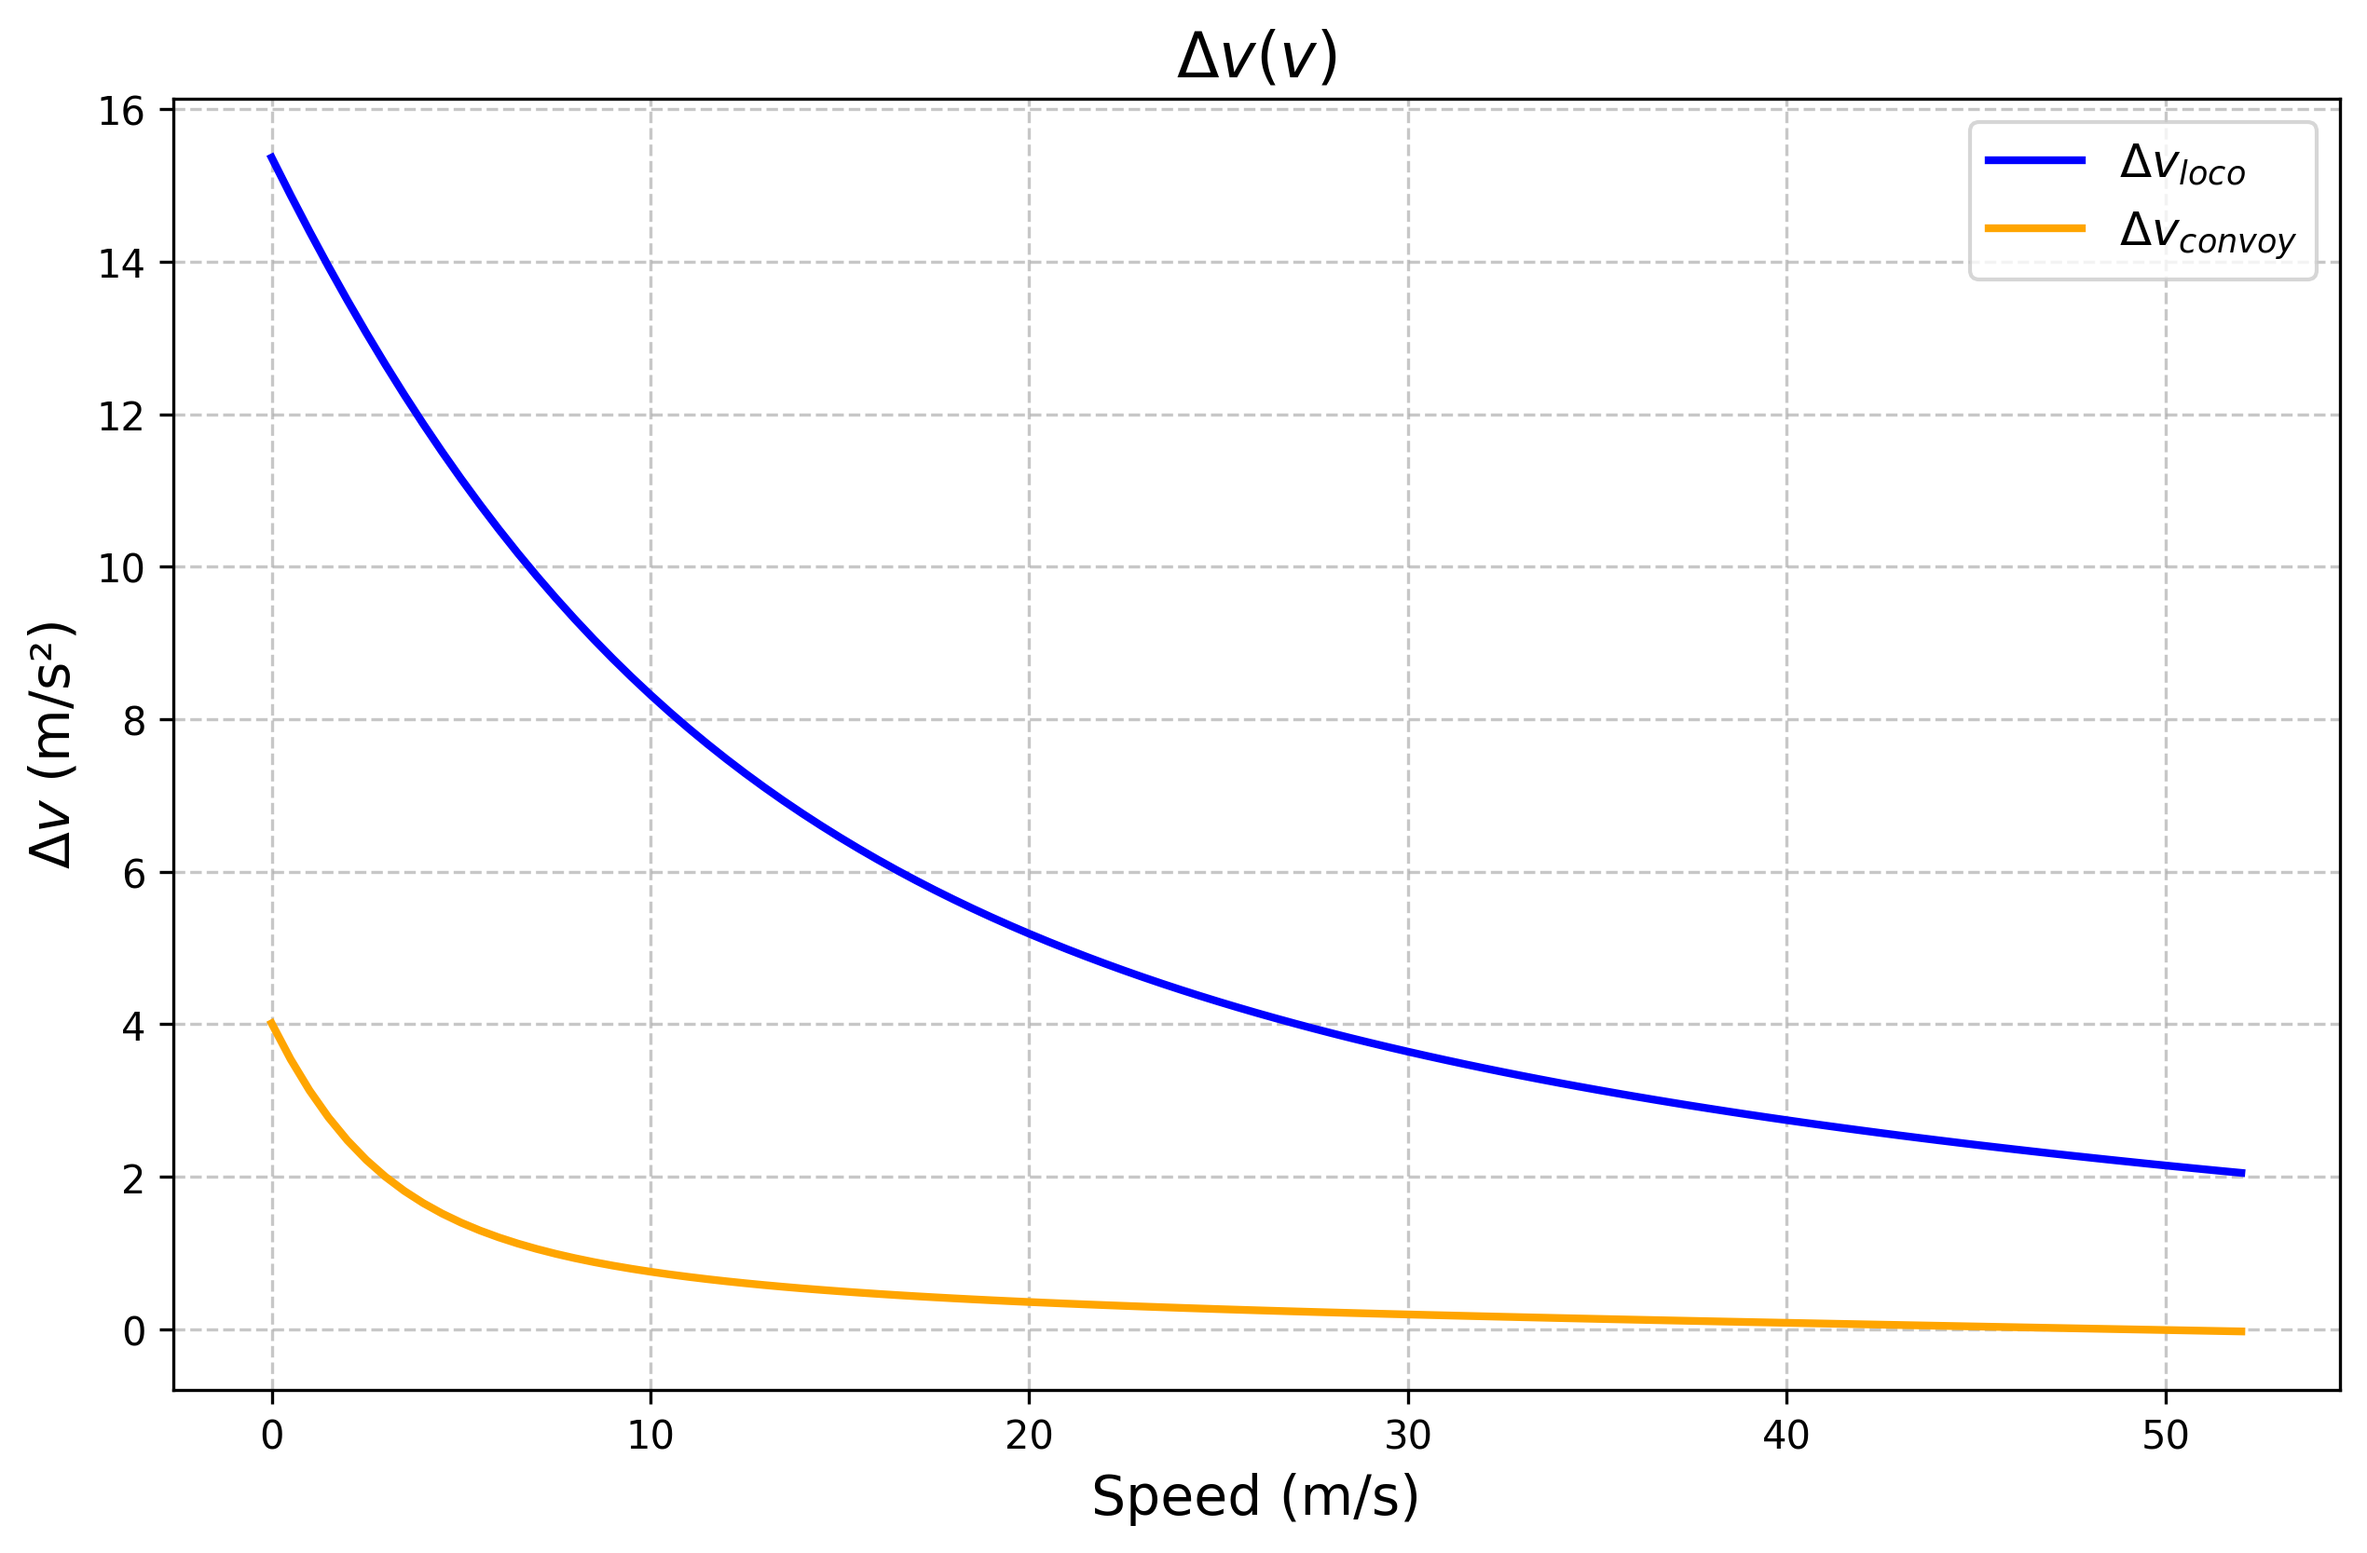
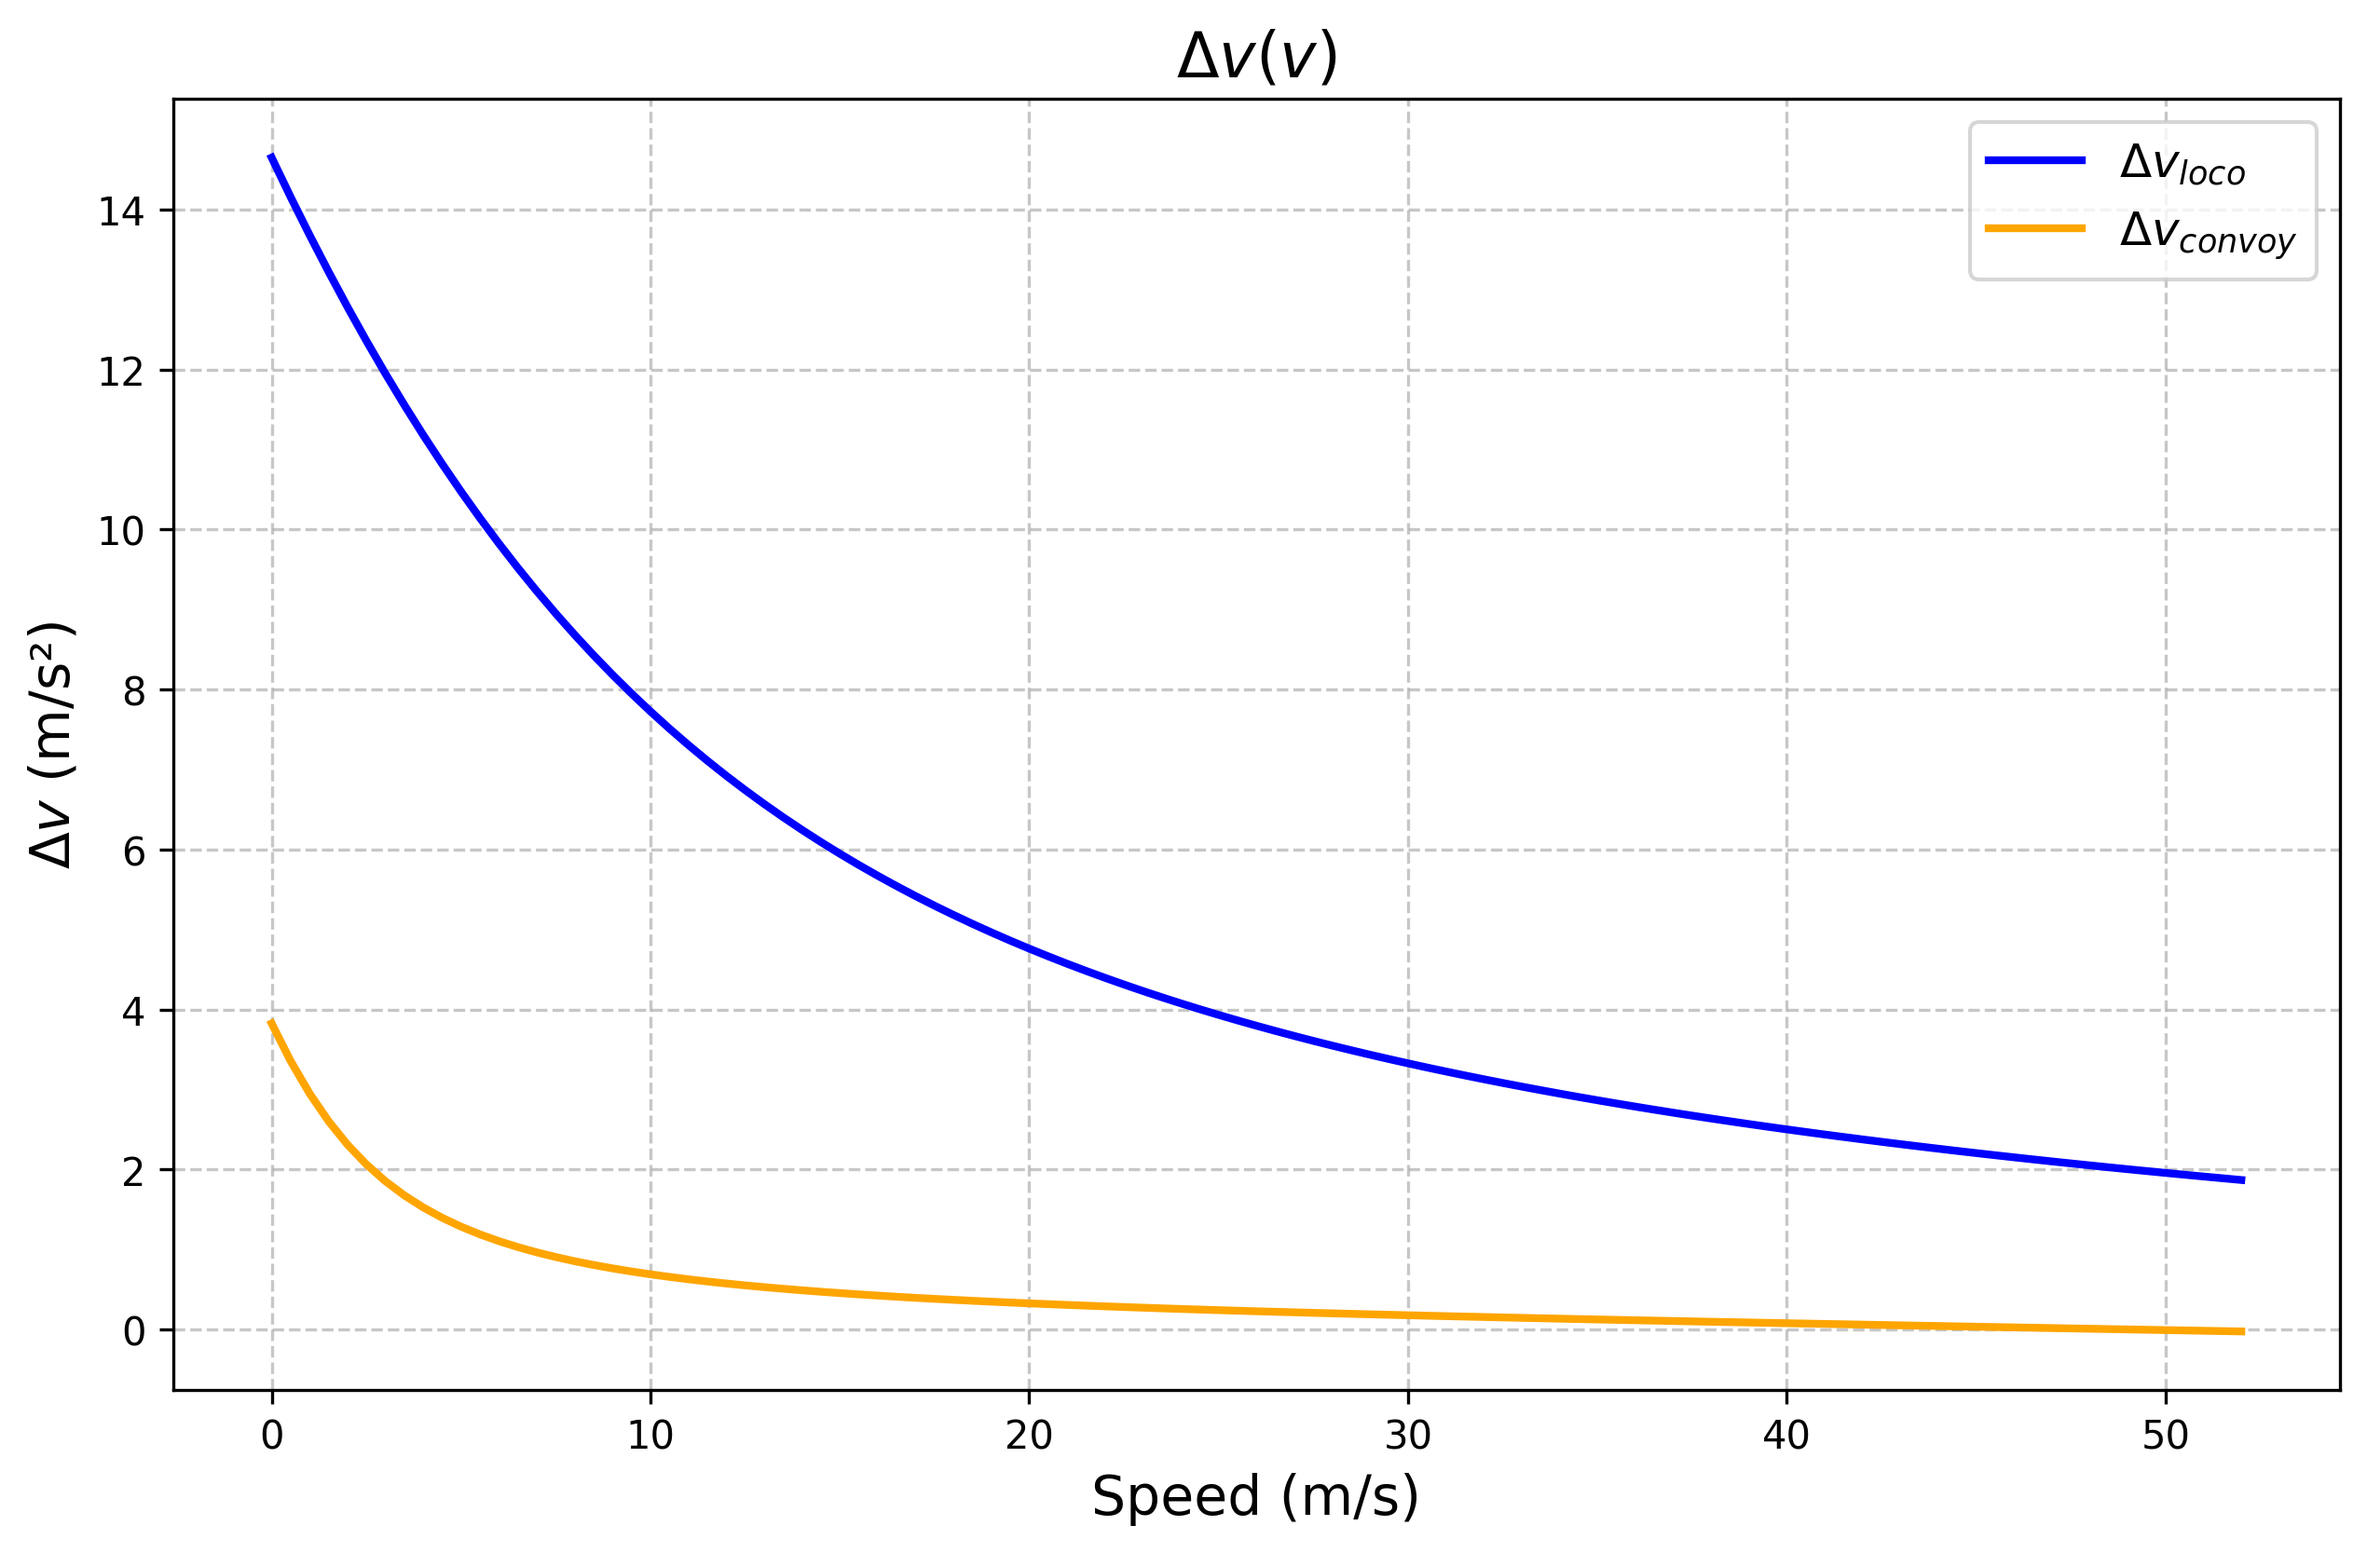
Explanation of new model

diff --git a/Code/New_model/CPLEX_CODE_with_constraints_new_formulation.py b/Code/New_model/CPLEX_CODE_with_constraints_new_formulation.py
@@ -20,6 +20,16 @@ from docplex.mp.model import Model
 import Convoy_example1
 from Convoy_example1 import Convoy1
 
+delta_v = Convoy1.delta_vs
+speeds = Convoy1.speeds
+
+
+def find_closest_acceleration(speeds, v):
+    # Find the index of the speed closest to v
+    closest_index = min(range(len(speeds)), key=lambda i: abs(speeds[i] - v))
+    return delta_v[closest_index]
+
+
 opt_model = Model(name="MIP Model")
 
 Nc = 40
@@ -62,7 +72,11 @@ for i in range(0, Nc):
 objective = opt_model.linear_expr()
 ## objective is the hamiltonian/energy value we want to minimize
 ## Energy:
+velocity = 0
 for i in range(0, Nc):
+    delta_v_acc = find_closest_acceleration(speeds, velocity)
+    velocity = velocity + delta_v_acc * x[i] - delta_v_decc * y[i]
+    delta_v_acc = find_closest_acceleration(speeds, velocity)
     objective += (delta_v_acc**2) * x[i] - alpha * (delta_v_decc**2) * y[i]
     # objective += (delta_v**2)*x[i]
 
@@ -106,6 +120,7 @@ Constraint 2: (Total Distance constraint)
 distance = opt_model.linear_expr()
 velocity = 0
 for i in range(0, Nc):
+    delta_v_acc = find_closest_acceleration(speeds, velocity)
     velocity = velocity + delta_v_acc * x[i] - delta_v_decc * y[i]
     distance += velocity
 opt_model.add_constraint(distance == Dist, "Distance_constraint")
@@ -118,20 +133,32 @@ opt_model.add_constraint(distance == Dist, "Distance_constraint")
 Constraint 3: (Net-Zero contraint)
 
 """
-opt_model.add_constraint(
+velocity = opt_model.linear_expr()
+for i in range(0, Nc):
+    delta_v_acc = find_closest_acceleration(speeds, velocity)
+    velocity += delta_v_acc * x[i] - delta_v_decc * y[i]
+opt_model.add_constraint(velocity == 0, "Net_Zero_constraint")
+
+"""opt_model.add_constraint(
     opt_model.sum((y[i] * delta_v_decc - delta_v_acc * x[i]) for i in range(0, Nc))
     == 0,
     "Net_Zero_constraint",
-)
+)"""
 
 """
 Constraint 4: (Maximum Speed)
 
 """
-opt_model.add_constraint(
+max_velocity = opt_model.linear_expr()
+for i in range(0, Nc):
+    delta_v_acc = find_closest_acceleration(speeds, velocity)
+    max_velocity += delta_v_acc * x[i]
+opt_model.add_constraint(max_velocity <= Convoy1.calculate_vmax(), "vmax_constraint")
+
+"""opt_model.add_constraint(
     opt_model.sum((delta_v_acc * x[i]) for i in range(0, Nc)) <= vmax,
     "Maximum_Speed_constraint",
-)
+)"""
 
 
 #### Print the optimization model

diff --git a/Code/New_model/Classes.py b/Code/New_model/Classes.py
@@ -40,12 +40,13 @@ class Wagon:
 
 
 class Locomotive:
-    def __init__(self, Pnom, Mloco, Ne, efficiency=0.85):
+    def __init__(self, Pnom, Mloco, Ne, efficiency=0.85, k=1.1):
         self.Pnom = Pnom
         self.Mloco = Mloco  # tonnes
         self.Mtot = Mloco
         self.Ne = Ne
         self.efficiency = efficiency
+        self.k = k
 
     def RAV(self, v):  # v  in m/s
         v = v * 3.6  # v in km/h
@@ -60,7 +61,7 @@ class Locomotive:
     def delta_v(self, v1):  # v1 in m/s
         Pav = self.Pavailable(v1)
         delta_t = 1  # 1 sec steps
-        v2 = math.sqrt((2 / ((self.Mtot) * 1000)) * Pav * delta_t + v1**2)
+        v2 = math.sqrt((2 / ((self.k * self.Mtot) * 1000)) * Pav * delta_t + v1**2)
         return v2 - v1  # delta_v in m/s^2
 
     def calculate_vmax(self):
@@ -113,8 +114,9 @@ class Convoy(Locomotive):
             return vmax_approx / 3.6  # m /s
 
 
-def acceleration_profile(self, verbose=0):
-    speed = np.arange(0, self.calculate_vmax(), 0.5)
+def acceleration_profile(self, n=1000, verbose=0):
+    step = self.calculate_vmax() / n
+    speed = np.arange(0, self.calculate_vmax(), step)
     delta_v_loco = []
     delta_v_convoy = []
     Pavailable_loco = []

diff --git a/Notes/Modeling_train_acceleration.md b/Notes/Modeling_train_acceleration.md
@@ -1,12 +1,82 @@
 # Modeling a train's acceleration
-We are trying to determine the $\Delta v(v)$ of a train as approximating it as a constant is too big an approximation.
+We are trying to model the $\Delta v(v)$ or acceleration(v) of a train as approximating it as a constant is unreasonable.
 
 ## Train dynamics:
 
-**The fundamental law of train dynamics:**
+### **The fundamental law of train dynamics:**
 ```math
 F_{wheel} = F_{resistance} + F_{weight} + F_{curves} + F_{acceleration}
 ```
 ```math
-F_{wheel} = RAV + \frac{M_sg}{1000}i + \frac{M_sg}{1000} \frac{800}{\rho} + k M_s \gamma
+F_{wheel} = RAV + \frac{M_sg}{1000}i + \frac{M_sg}{1000} \frac{800}{\rho} 
 ```
+For now, we will suppose that:
+- The track is perfectly straight and flat, not taking into consideration the loss from the curvature of the track and weight of the train.
+- The departure and arrival points are at the same altitude, ignoring the potential energy losses.
+
+We therefore have:
+$$ F_{wheel} = RAV
+
+### **The RAV losses:**
+
+#### Formula:
+
+We have:
+$RAV=A+BV+CV^2$
+
+**A:**
+Mesures  the rolling resistance of the wheels on the rail and the axle bearings.
+$$A=\lambda_A \sqrt{\frac{10}{m}} M_s$$
+where:
+- m is the mass per axle
+  
+**B:**
+Other resistance such as losses by mechanical hysteresis, friction of the flanges on the lateral faces of the rail heads etc.
+$$B= \lambda_B M_s$$
+
+**C:**
+The aerodynamic losses:
+$$C= K_1 S + K_2 p L + \sum C_{others}$$
+Where:
+- $K_1$ global parameter of the shape of the front and rear extremities
+- $K_2$ global parameter of the "wet surface"
+<div style="display: flex; justify-content: center;">
+<img src="../Illustrations/Capture d’écran 2024-11-22 100248.png" style="width:50%;"/>
+</div>
+
+#### Example
+I chose to study a convoy made up of a BB60000 locomotive with 12 standard 4-axle carriages.
+For these types of vehicles, we get:
+```math
+RAV_{locomotive} = 6.5 M_s + 130N_e + 0.1 M_s V + 0.3 V^2 \\
+RAV_{carriage} = 12 M_s + 0.09 M_s V + 0.0044 M_s V^2
+```
+Where:
+- $N_e$ is the number of axles
+
+### Determining the acceleration:
+
+We are given the nominal power produced by the locomotive which is, in our case of 1MW ($P_{Nom}$).
+
+We determine the power available for acceleration:
+$$P_{Available} = \eta P_{Nom}  - P_{Resistance}$$
+Where:
+$P_{Resistance} = F_{Resistance} \times v$
+
+And since all of our available power is used for acceleration we have, between two steps i and i+1:
+```math
+\Delta Ec = \frac12 M_{tot} (v_{i+1}^2-v_i^2) = P_{Available} \ \Delta_t
+```
+Where:
+$M_{tot}= M_{static} + M_{rolling} \approx k M_{static} $ with $k \approx 1.1$
+
+Which gives us that:
+$v_{i+1}= \sqrt{v_i^2 + \frac2{k M_{static}} \ P_{Available} \ \Delta t}$
+And therefore:
+$$\Delta v = \sqrt{v_i^2 + \frac2{k M_{static}} \ P_{Available} \ \Delta t} - v_i$$
+
+We therefore obtain:
+<div style="display: flex; justify-content: center; gap: 20px;">
+  <img src="../plots/Pavailable(v).png" style="width:45%;"/>
+  <img src="../plots/delta_v_v_plot.png" style="width:45%;"/>
+</div>
